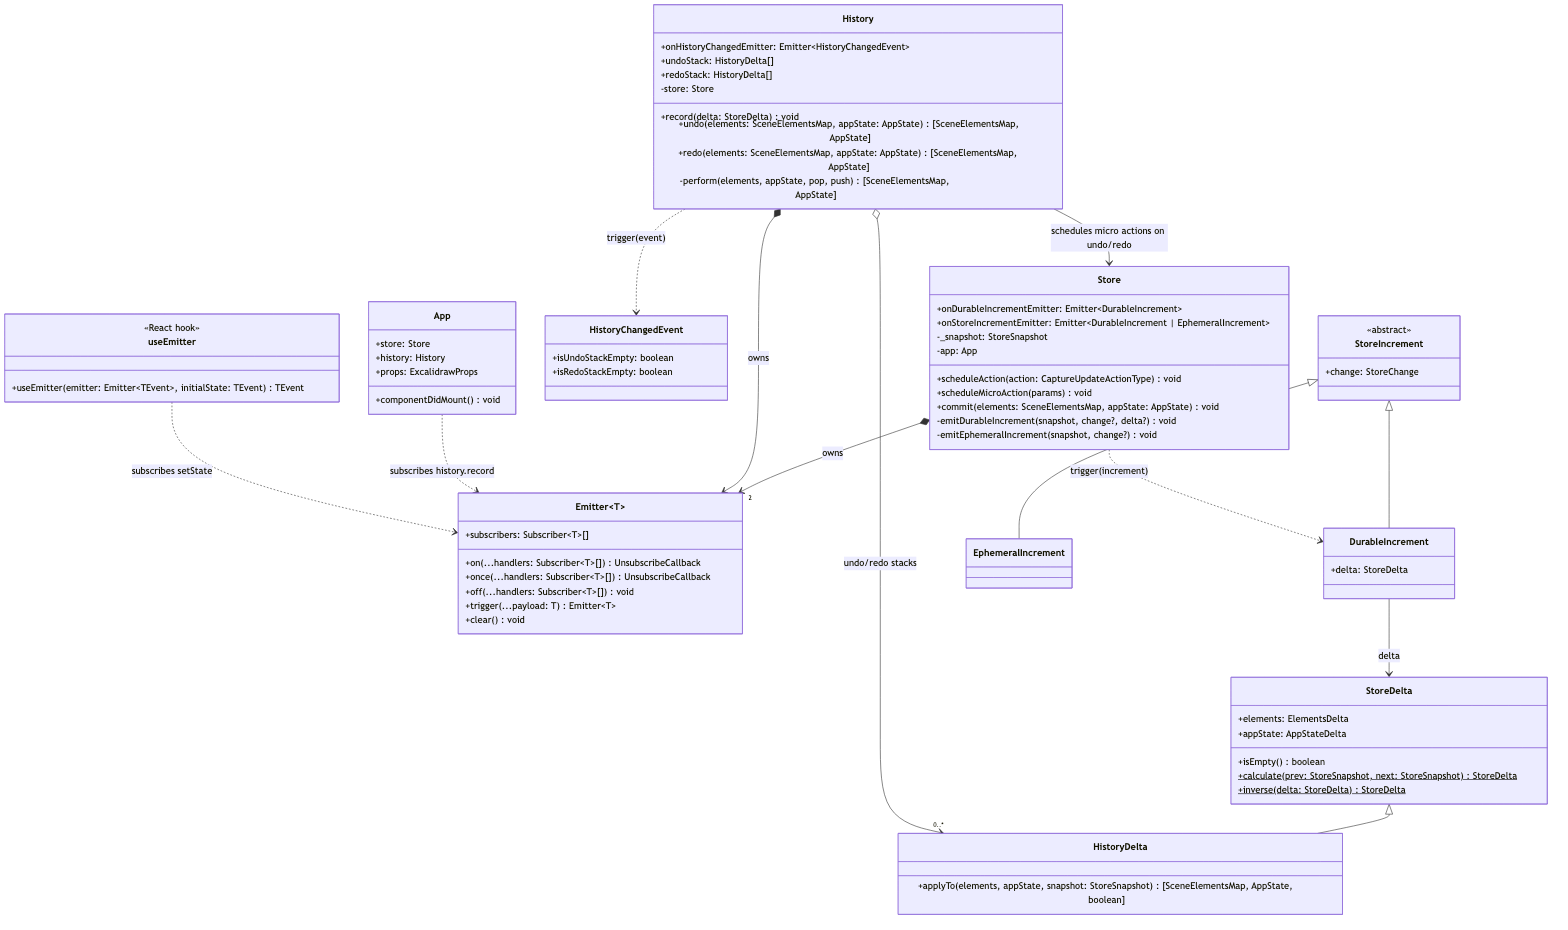
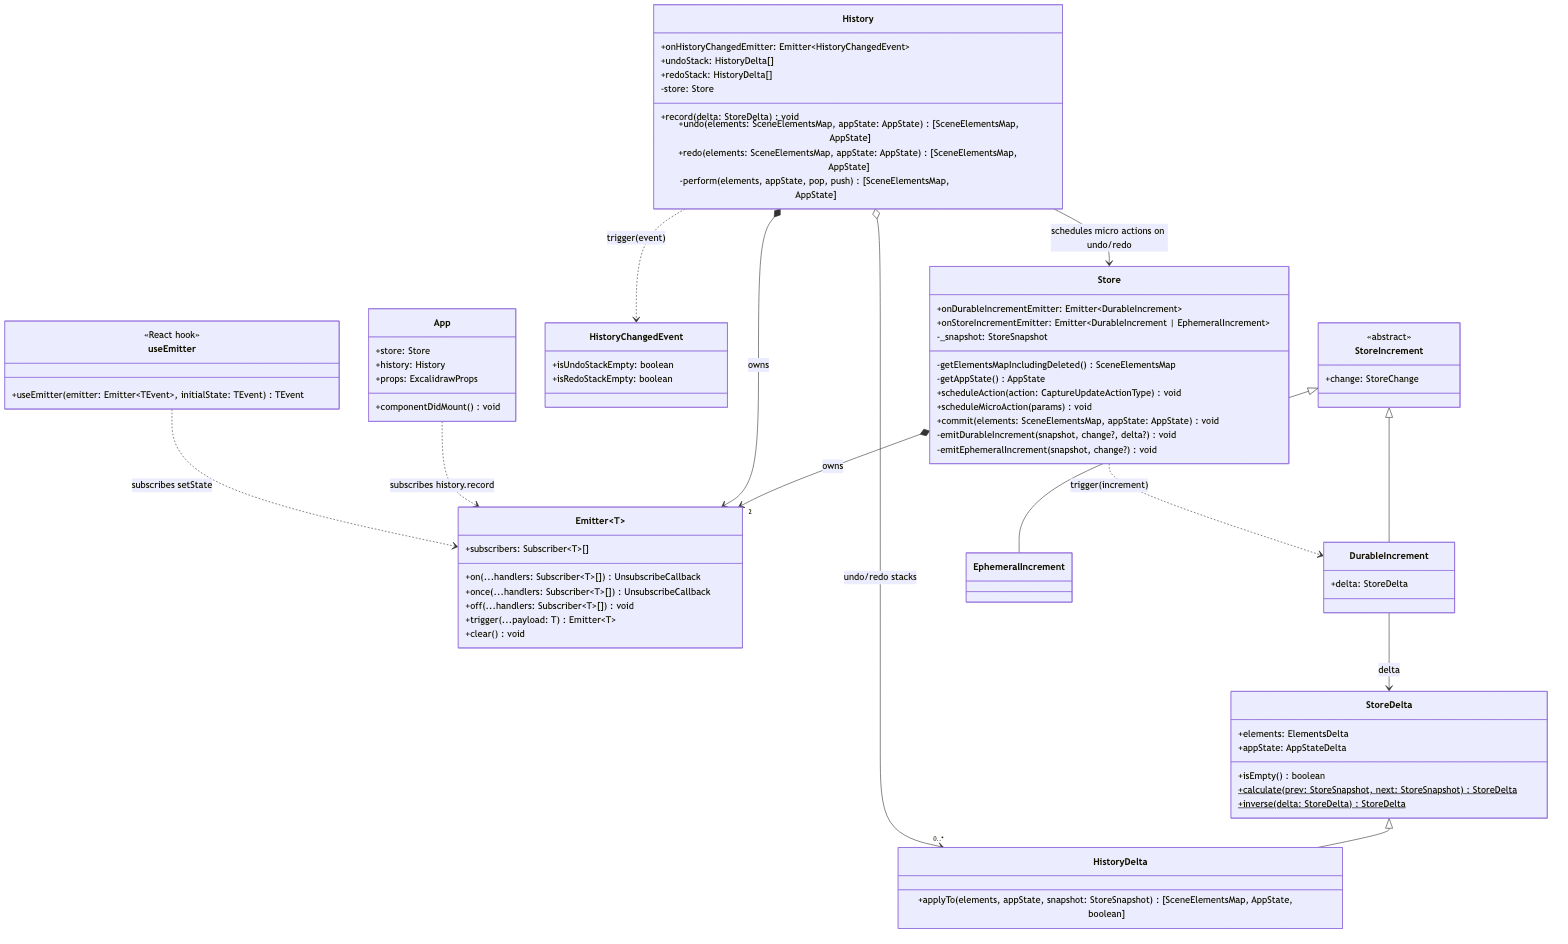
A8: Add Part 4 (GRASP refactoring) to design patterns write-up

diff --git a/docs/design-patterns.md b/docs/design-patterns.md
@@ -53,7 +53,8 @@ classDiagram
         +onDurableIncrementEmitter: Emitter~DurableIncrement~
         +onStoreIncrementEmitter: Emitter~DurableIncrement | EphemeralIncrement~
         -_snapshot: StoreSnapshot
-        -app: App
+        -getElementsMapIncludingDeleted() SceneElementsMap
+        -getAppState() AppState
         +scheduleAction(action: CaptureUpdateActionType) void
         +scheduleMicroAction(params) void
         +commit(elements: SceneElementsMap, appState: AppState) void
@@ -868,3 +869,71 @@ To be accurate, these two particular switches were already checked by the compil
 ## Not done (next steps from Part 2)
 
 Nine of the 11 type switches from Part 2 are still in the code: the shape generators in `shape.ts`, the canvas renderer in `renderElement.ts`, the SVG renderer in `staticSvgScene.ts`, `restoreElement`, and `convertToExcalidrawElements`. The next step would add `getElementShape` to `ElementGeometryStrategy`, then add an `ElementCanvasStrategy` next to `renderElement.ts`. The likely `endArrowhead || endArrowhead` typo in `getCanvasPadding` is **not** fixed here, because it would change rendering behavior and should be a separate, tested change.
+
+
+---
+
+# Part 4: GRASP Refactoring — Low Coupling in `Store`
+
+**Commit:** `A8-GRASP: Refactor Store to apply Low Coupling` (separate from the Part 3 commit)
+
+**What moved and why.** `Store` (`packages/element/src/store.ts`) used to receive the entire `App` component, the 14,000-line editor class, but it used only two things from it, and one of those it reached *through* `App` to get (`this.app.scene.getElementsMapIncludingDeleted()`). The knowledge of where elements and state come from has moved out of `Store` and into its creator, `App`. `Store` now receives two getters, `getElementsMapIncludingDeleted` and `getAppState`, the same constructor style `ActionManager` already uses. As a result, the domain-layer `Store` no longer depends on the editor's `App` class at all. This removes the worst part of layering violation ② on the [Logical Architecture](Logical-Architecture#where-the-layering-breaks) page: `Store` making runtime calls into the `App` instance it was handed. The type-only `AppState` imports counted in ② remain. `Store` can also be created and tested with two plain functions, without a mounted editor.
+
+### Before
+
+```ts
+// packages/element/src/store.ts
+import type App from "@excalidraw/excalidraw/components/App";
+
+export class Store {
+  constructor(private readonly app: App) {}
+  // …
+  const currentSnapshot = StoreSnapshot.create(
+    this.app.scene.getElementsMapIncludingDeleted(),   // Store → App → Scene
+    this.app.state,
+  );
+}
+
+// packages/excalidraw/components/App.tsx
+this.store = new Store(this);
+```
+
+### After
+
+```ts
+// packages/element/src/store.ts — no import of App
+export class Store {
+  constructor(
+    private readonly getElementsMapIncludingDeleted: () => SceneElementsMap,
+    private readonly getAppState: () => AppState,
+  ) {}
+  // …
+  const currentSnapshot = StoreSnapshot.create(
+    this.getElementsMapIncludingDeleted(),
+    this.getAppState(),
+  );
+}
+
+// packages/excalidraw/components/App.tsx
+this.store = new Store(
+  () => this.scene.getElementsMapIncludingDeleted(),
+  () => this.state,
+);
+```
+
+### GRASP
+
+- **Violated before: Low Coupling.** `Store` was coupled to `App`, the largest and most frequently changed class in the codebase, and through it to `Scene`'s API. That is two dependencies `Store` didn't need, and one of them pointed up a layer.
+- **Applied now: Low Coupling.** `Store` depends only on two function types built from domain types (`SceneElementsMap`, `AppState`). `App`, which already owns both the scene and the state, is the **Information Expert** for where they come from, and that is where the knowledge now lives.
+
+### Verification
+
+| Check | Result |
+|---|---|
+| `tsc` | 0 errors |
+| `vitest --run` (no snapshot update) | 137 files, 2,268 tests passed, 0 failed |
+| `eslint --max-warnings=0`, `prettier --check` on both files | clean |
+| `vite build` of `excalidraw-app` | built successfully |
+| imports of `components/App` from `packages/element/src` | 1 before → **0** after |
+
+The Observer diagram in Part 1 has been updated to show `Store`'s new constructor dependencies.
